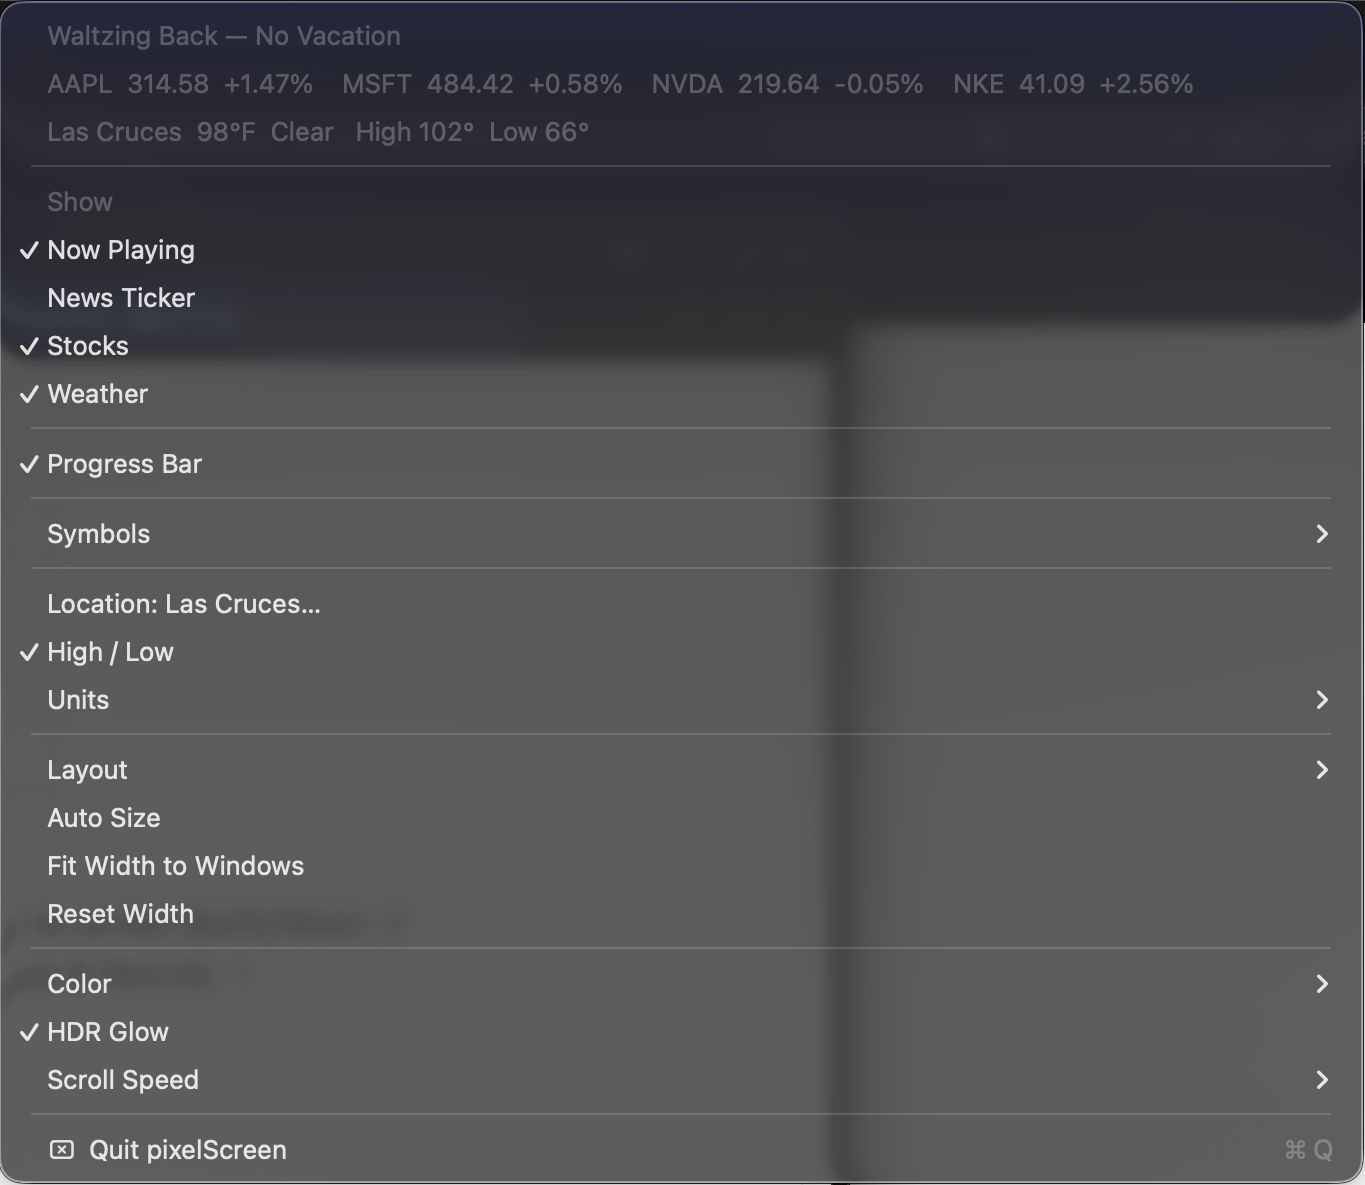
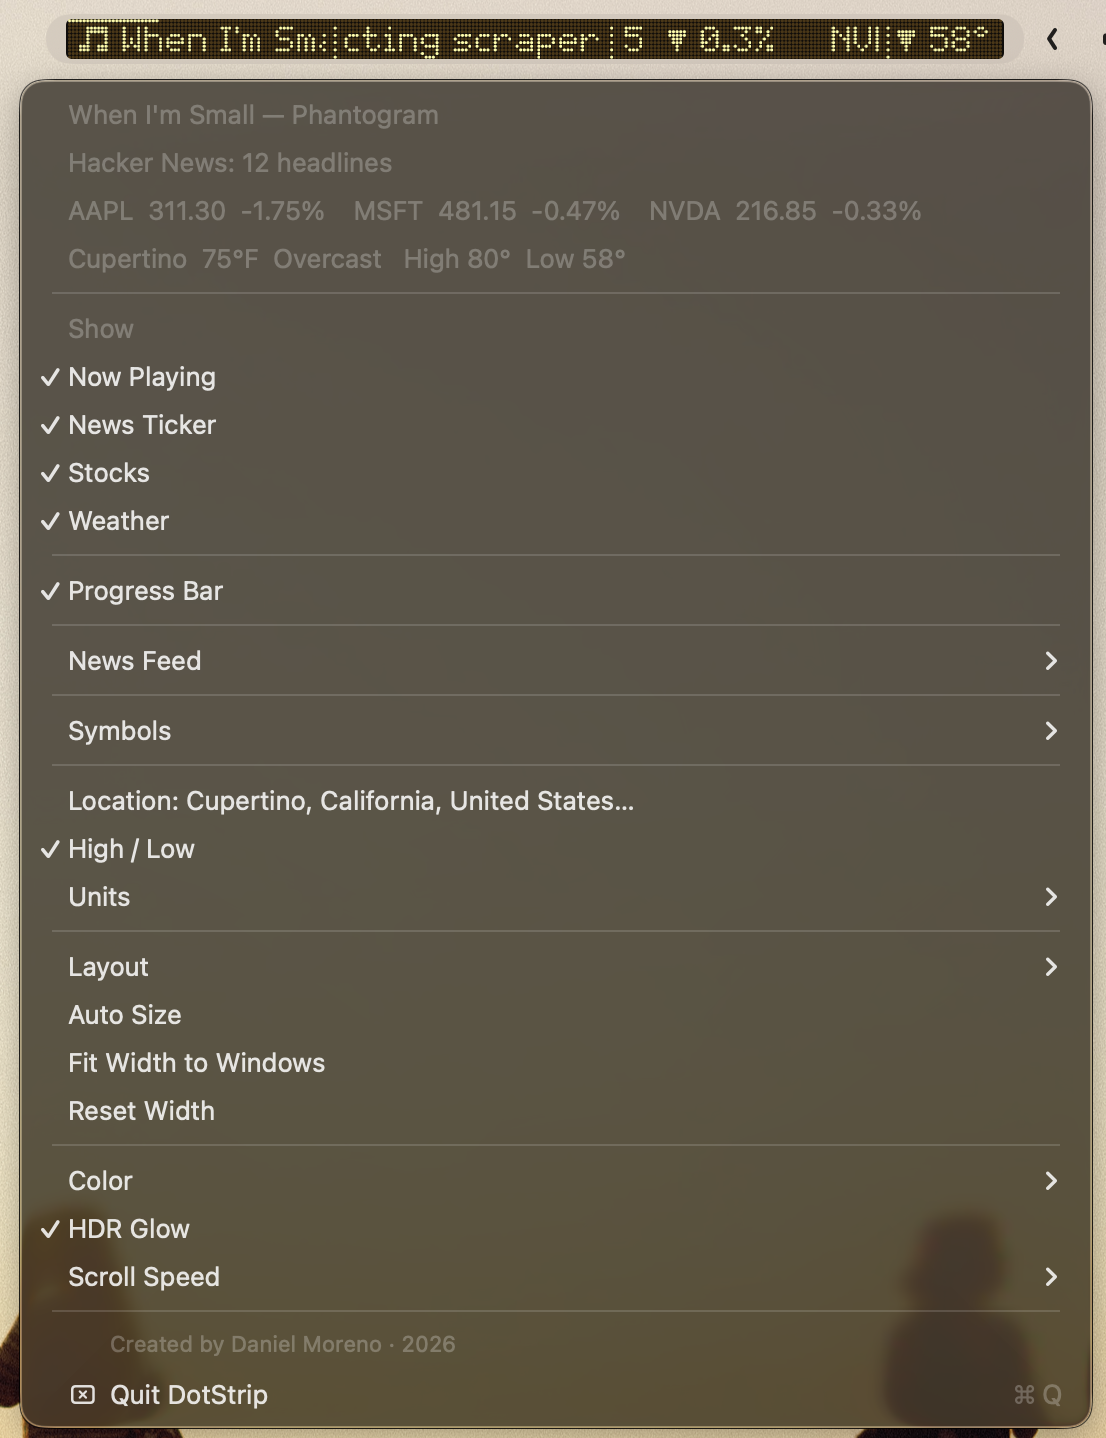
readme update

diff --git a/README.md b/README.md
@@ -65,12 +65,13 @@ nothing is antialiased into place:
 Clicking the panel opens everything there is to configure:
 
 <p align="center">
-  <img src="docs/menu.png" alt="The DotStrip menu, showing widget toggles and the layout, colour and speed submenus" width="682">
+  <img src="docs/menu.png" alt="The DotStrip menu, showing the plain-text read-out at the top, the widget toggles, and the layout, colour and speed submenus" width="553">
 </p>
 
-The three greyed rows at the top aren't controls, they're a read-out: the full
-track title, every quote you're tracking, and the current conditions, all in
-plain text. The panel only ever shows you a slice of that at a time, so this is
+The greyed rows at the top aren't controls, they're a read-out: one line per
+widget that's switched on — the full track title, how many headlines the feed
+has, every quote you're tracking, and the current conditions, all in plain
+text. The panel only ever shows you a slice of that at a time, so this is
 where you look when something has already scrolled past.
 
 Below that:
